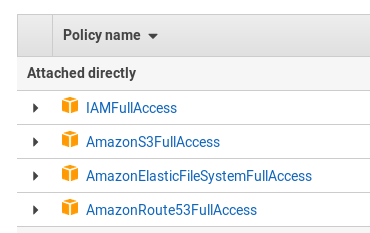
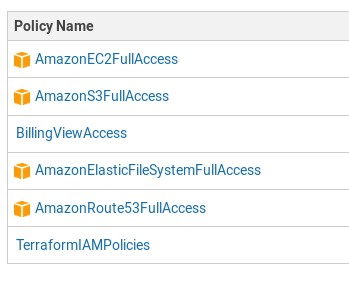
Improve AWS documentation about IAM policies

Changed region(s): [[0.0, 0.03, 1.0, 0.6309], [0.0, 0.6609, 1.0, 0.9313], [0.0573, 0.9614, 1.0, 0.9914]]

diff --git a/aws/README.md b/aws/README.md
@@ -60,10 +60,30 @@ This file is also used by the `aws` command line tool, so it can be created with
 
 In order to execute the deployment properly using terraform, the used user must have some policies enabled. Mostly, it needs access to manage EC2 instances, S3 buckets, IAM (to create roles and policies) and EFS storage.
 
-Here how it should look like:
+In order to setup the IAM proper rights, 2 options are available:
+- Set the `IAMFullAccess` policy to the user running the project (or to the group which the user belongs to). This is not recommended as this IAM policy give full IAM access to the user.
+- A better and more secure option, is to create a new policy to give access to create roles with rights to only manage EC2 instances. This will make the project executable, but won't set any other IAM permission to the users. This option is the recommended one. To use this approach, create the next policy giving a meaningful name (`TerraformIAMPolicies` for example) and attach it to the users that will run the project (or the group the users belong to):
+
+```
+{
+    "Version": "2012-10-17",
+    "Statement": [
+        {
+            "Effect": "Allow",
+            "Action": "iam:CreateServiceLinkedRole",
+            "Resource": "*"
+        }
+    ]
+}
+```
+The policy must be attached only to the `IAM` service if it's created manually and not with the json inline option.
+
+Here how it should look like your user or group:
 
 
 ![AWS policies](./images/policies.png?raw=true)
+
+**Warning: If you use the 2nd option, the AWS web panel won't show that the created instances have any role attached, but they have. The limits in the IAM access makes this not visible, that's all**
 
 
 5) **Deploy**:
